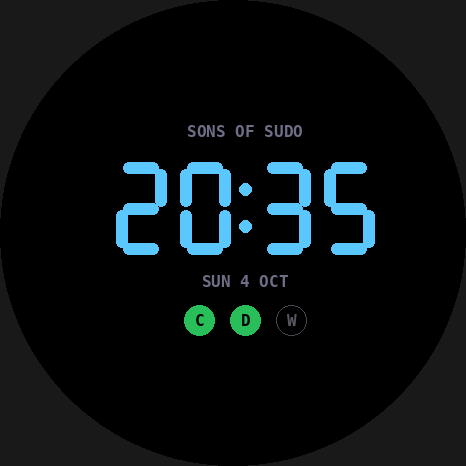
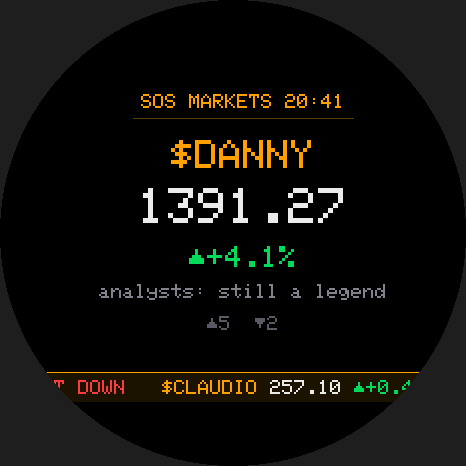
v3.3: SOS MARKETS - Bloomberg-style screensaver with main quote and bottom ticker crawl
Claude-Session: https://claude.ai/code/session_012R8JJx6p23WgobAAvQmpz9

Changed region(s): [[0.2103, 0.1803, 0.8412, 0.721], [0.0901, 0.7811, 0.9013, 0.8712], [0.691, 0.2103, 0.7511, 0.2403]]

diff --git a/PROJECT.md b/PROJECT.md
@@ -1,10 +1,10 @@
-# Thanks Danny badge - project index (v3.2, 4 Oct 2026)
+# Thanks Danny badge - project index (v3.3, 4 Oct 2026)
 
 Firmware and tools for the Waveshare **ESP32-S3-Touch-AMOLED-1.75C** round badge.
 `README.md` is the full engineering log (hardware facts, every version's reasoning and
 measurements); this page is the map.
 
-## What the badge does (v3.2)
+## What the badge does (v3.3)
 
 - **Startup**: a picture and a short sound at power-on, then the home screen (tap to skip).
 - **Home**: Sons of Sudo wallpaper and an app carousel: one big icon, its neighbours at the sides,
@@ -21,16 +21,18 @@ measurements); this page is the map.
   hand, a shake and a sound; SLAP BACK. Through your own Mosquitto (see `server/mosquitto/`).
 - **Settings**: Wi-Fi setup on the phone (the badge raises its own `ThanksDanny-setup`
   network; also the badge network login), this badge's name, slap sound on/off, close.
-- **Screensaver**: after 1 minute without a touch the badge dims to a drifting clock, the date and
-  who is online (C D W); after 5 more minutes the panel sleeps. A tap, BOOT, picking the badge up or
-  an incoming slap wakes it, back on the screen you left.
+- **Screensaver (SOS MARKETS)**: after 1 minute without a touch the badge dims to a Bloomberg-style
+  market screen: the time, one big quote in the centre ($SUDO, $DANNY, $COFFEE LIMIT DOWN, ...) and a
+  ticker crawling along the bottom with all indices and the odd headline. Member stocks show MKT CLOSED
+  while that badge is offline; $SLAP is the real slap count. After 5 more minutes the panel sleeps. A tap,
+  BOOT, picking the badge up or an incoming slap wakes it, back on the screen you left.
 - **BOOT button**: back to the home screen from anywhere.
 
 ## Layout
 
 | Folder / file | What it is |
 |---|---|
-| `Badge/` | **The firmware.** `Badge.ino` (screen, touch, carousel, Wi-Fi), `Gallery.ino` (Pictures), `Decider.ino` (coin toss + sound), `Rumours.ino` (rumour player), `Startup.ino` (power-on splash), `Sos.ino` (badge network + Slap), `Screensaver.ino` (idle clock), `src/sosnet.cpp` (MQTT link), `src/` (Helix MP3 decoder + stream loop), `decider_assets.h` / `decider_sound.h` (generated), `es8311.*` (audio codec driver), `sketch.yaml` (board settings) |
+| `Badge/` | **The firmware.** `Badge.ino` (screen, touch, carousel, Wi-Fi), `Gallery.ino` (Pictures), `Decider.ino` (coin toss + sound), `Rumours.ino` (rumour player), `Startup.ino` (power-on splash), `Sos.ino` (badge network + Slap), `Screensaver.ino` (SOS MARKETS screensaver), `src/sosnet.cpp` (MQTT link), `src/` (Helix MP3 decoder + stream loop), `decider_assets.h` / `decider_sound.h` (generated), `es8311.*` (audio codec driver), `sketch.yaml` (board settings) |
 | `tools/flash_badge.cmd` | Double-click: clean build + upload + boot log. |
 | `tools/prep_decider.py` | `assets/chooser` badges -> `Badge/decider_assets.h` |
 | `tools/prep_decider_sound.py` | `assets/chooser/drummroll.mp3` -> `Badge/decider_sound.h` (needs ffmpeg) |
@@ -56,7 +58,7 @@ measurements); this page is the map.
 - Arduino IDE 2 (its built-in arduino-cli), **esp32 core 3.3.x** (3.3.12 used here)
 - Libraries: **GFX Library for Arduino 1.6.8**, **SensorLib 0.5.0**, **TJpg_Decoder 1.1.0**
 - Board settings: in `Badge/sketch.yaml`; Partition Scheme **32M Flash (4.8MB APP/22MB LittleFS)**
-- v3.2 build: 3,112,971 bytes (65% of the app partition), globals 23%
+- v3.3 build: 3,114,995 bytes (65% of the app partition), globals 23%
 
 ## Restore from scratch (new PC, or a wiped board)
 

diff --git a/README.md b/README.md
@@ -451,6 +451,24 @@ The badges (Claudio, Danny, Walter) now talk to each other through your own Mosq
 - Tunables at the top of `Screensaver.ino`: `SAVER_AFTER_MS`, `SAVER_OFF_MS`, `SAVER_BRIGHT`, `SAVER_WAKE_DPS`.
 - Build: **3,112,971 bytes** (65%), globals 23%.
 
+## v3.3 - SOS MARKETS (Bloomberg-style screensaver)
+
+The screensaver's clock became a market screen (`preview_screensaver.png`); everything else about the
+saver (when it starts, waking, panel sleep, restoring the screen) is unchanged from v3.2.
+
+- **Header** "SOS MARKETS 20:41" (amber), **main quote** in the centre: symbol, price, change (green
+  up-triangle / red down-triangle, or a status) and an analyst quip, plus market breadth (up / down count).
+  The main quote moves on to the next index every 12 s, and all prices tick at the same moment.
+- **Crawl**: an amber band along the bottom edge scrolls every index and a headline every four quotes
+  ("FED HOLDS COFFEE RATE AT ZERO"). ~60 px/s at ~30 fps; only the 466x30 band is redrawn and sent
+  (`flushRect`), so it costs a few ms per frame. Rebuilt with fresh prices each time it has run through.
+- **Indices** (`SV[]` in `Screensaver.ino`): random walks with a personality - $DANNY only goes up,
+  $MEETING only down (floor -99.9%), $BUGS to the moon; fixed statuses $COFFEE LIMIT DOWN, $DEPLOY HALTED,
+  $RUMOUR UNCONFIRMED. Live ones: $CLAUDIO / $DANNY / $WALTER show **MKT CLOSED** while that badge is
+  offline, $SLAP is this badge's real received-slap count, $BEER is PRE-MARKET until 17:00.
+- Burn-in: header and quote move to a random spot within +-30 px every minute; the band keeps moving.
+- Build: **3,114,995 bytes** (66%), globals 24%.
+
 ## Next steps
 
 - Flash v2 and read the boot log's `full frame` and `composed + flush` timings; confirm the panel
